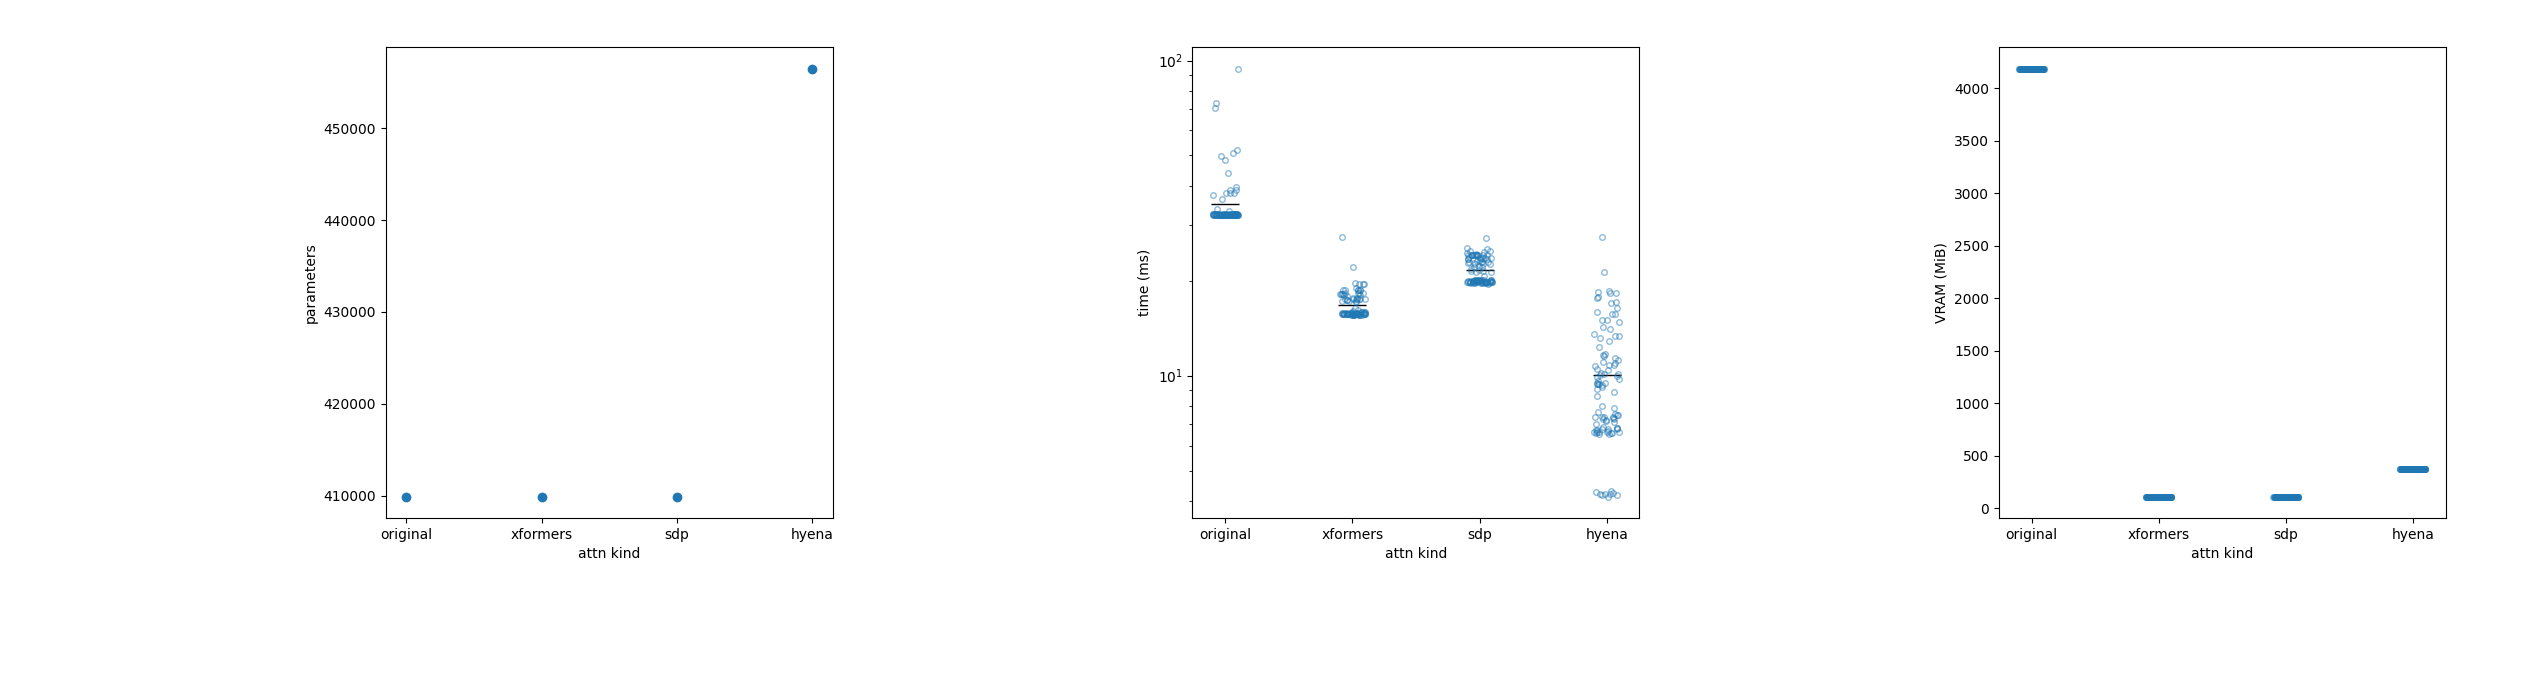
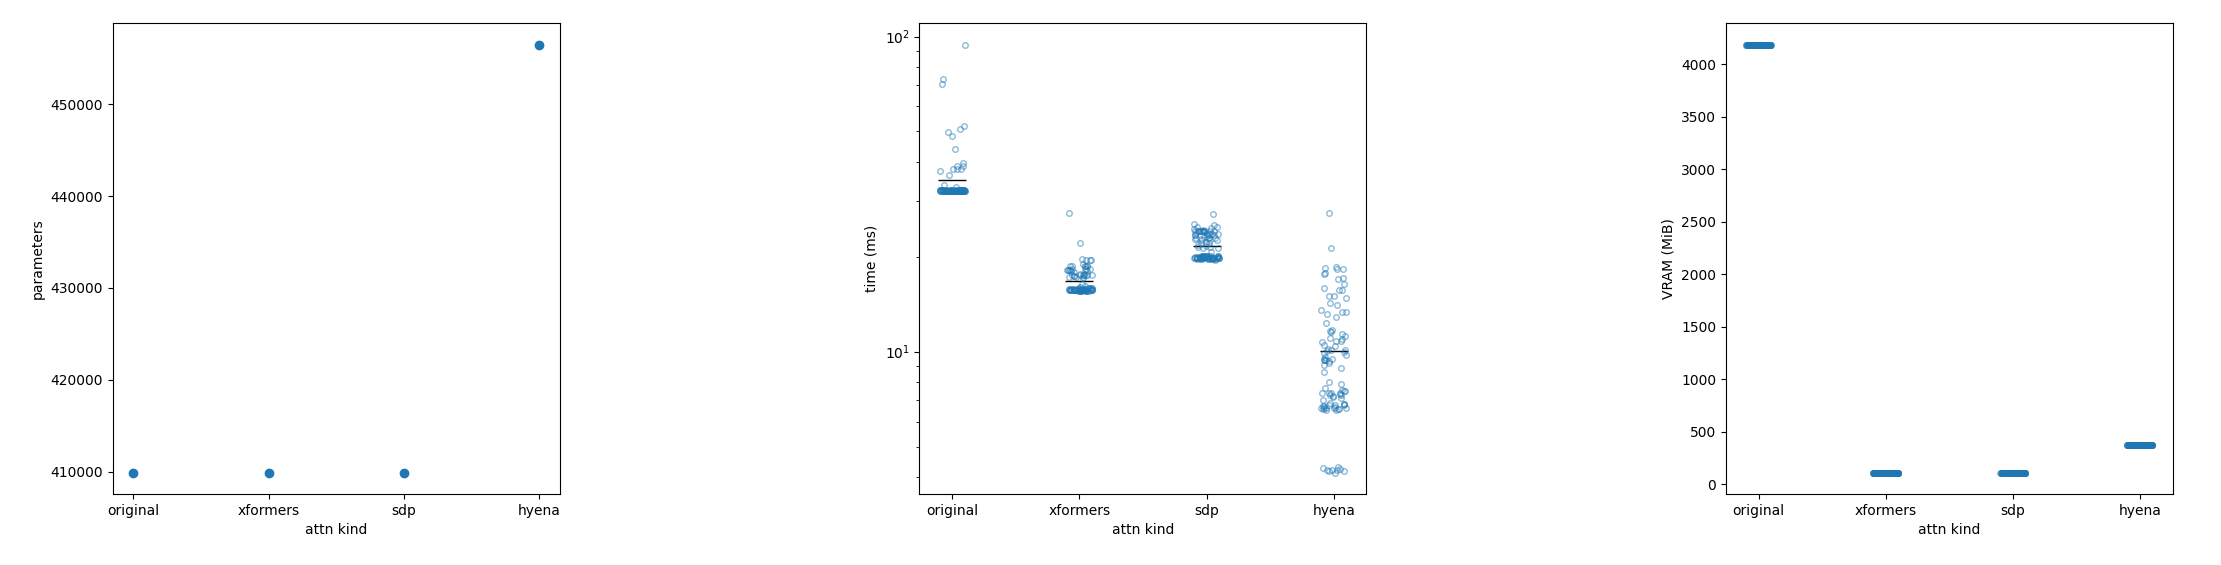
update images

diff --git a/README.md b/README.md
@@ -2,8 +2,7 @@
 
 Stable-diffusion self-attention layers replacement with [Hyena](https://github.com/HazyResearch/safari).
 
-![cover 1](assets/cover.png)
-![cover 2](assets/Figure_2b.jpg)
+![cover](assets/cover.png)
 
 ## Installation
 
@@ -115,11 +114,9 @@ batch size: 1
 image size: 2048x2048
 ```
 
-### Inference time of the performance-critical layer
+### Replacing layers which has a significant impact on performance
 
-![benchmark 3: performance of SDP and Hyena](assets/Figure_2a.jpg)
-
-![benchmark 4: generation time of 2048x2048 image.](assets/Figure_2b.jpg)
+![benchmark 3: performance of SDP and Hyena](assets/Figure_2.png)
 
 The computational complexity of the self-attention is proportional to the square of the context length. When the size of the generating image is `(w, h)`, the input size of the self-attention layer for `IN01`, `IN02`, `OUT09`, `OUT10`, and `OUT11` will be `(320, w//8 * h//8)`, and the context length is more than 4 times larger than the other self-attention layers. Therefore, these layers are likely to become performance bottlenecks. So I replaced these layers with Hyena. As a result, performance was extremely improved.
 
